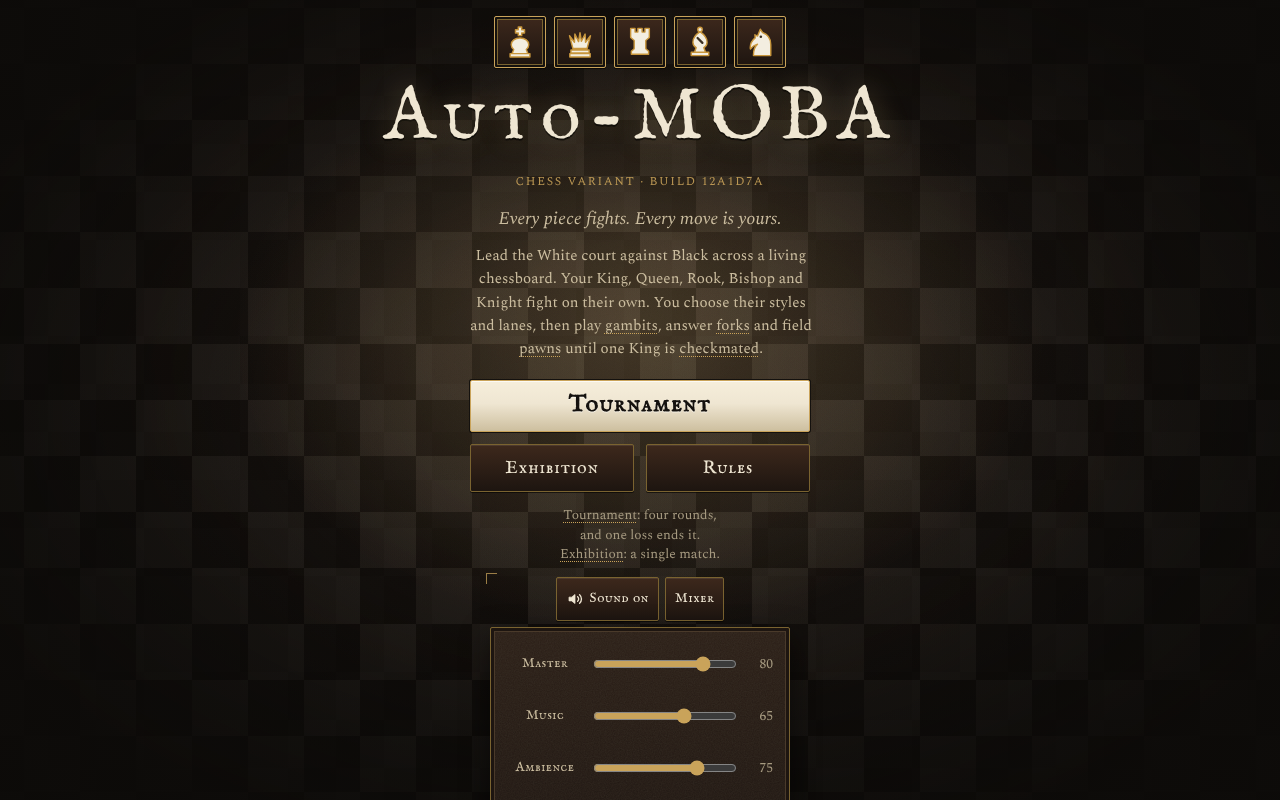
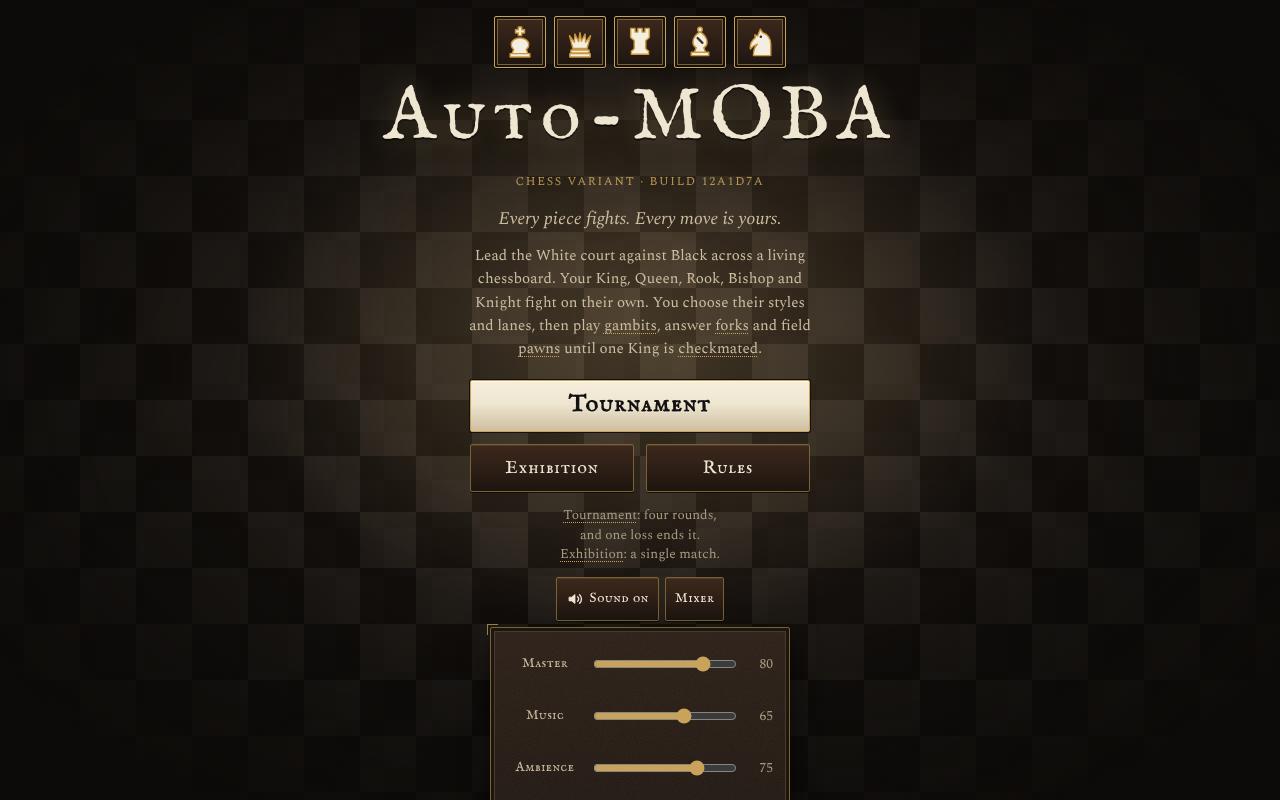
Audio: Mixer button reaches 44 px, final screenshots, changelog results
Claude-Session: https://claude.ai/code/session_01NfjPZSFNXY97ZNu7wyb6ss

Changed region(s): [[0.375, 0.3125, 0.625, 0.4688]]

diff --git a/src/ui/css/controls.css b/src/ui/css/controls.css
@@ -180,7 +180,7 @@
   gap: 6px;
   align-items: center;
 }
-.sound-mix-btn {
+.btn.small.sound-mix-btn {
   min-height: 44px;
   font-size: var(--fs-sm);
 }

diff --git a/docs/CHANGELOG.md b/docs/CHANGELOG.md
@@ -4,7 +4,7 @@ Newest first. One entry per change: what changed, why, and any measured effect. 
 
 ## 2026-10-17
 
-- **Audio: a music bed, garden ambience, 32 cues and a four-slider mixer** (proposal branch; Fable review 4.6; rules in [CHESS.md](CHESS.md) "Audio"). Why: the review scored audio 3 of 5 against the bar "a music bed, hall ambience, 20+ cues"; there were six cues and no music. **Built (all code, Web Audio synthesis, no audio files or dependencies; `src/ui/sound.ts`, `src/ui/audio/`):** (1) a **generative music bed** in D minor: a soft string pad plus a plucked harpsichord-like motif, varied bar by bar from its own seeded generator (never the sim's), calm on the Title, Setup, break sheet and report, and tenser (low ostinato, trembling strings, denser motif) in later Acts, big fights, Check, a fallen Throne and the Endgame, with crossfades over a few seconds; (2) **garden ambience** that follows the board theme (Slate garden: wind in the pines, a brook, distant birds; Lamplit parterre: warm evening hum, a fountain with drops, crickets), swelling with the fighting and ducking under the bell; (3) **32 cues**; (4) a **mixer**: Master, Music, Ambience, Effects sliders plus the mute switch, in a **Mixer** panel on the Title and in the pause menu (Adjourn), saved in localStorage (`automoba.mixer`; `automoba.sound` stays the mute switch), muting or a hidden tab suspends the audio context. Starts on the first tap or key; no Web Audio means silence, never an error. **The cues:** _toll_ low brass bell, three strengths (as before); _tick_ clock tick in the last 5 s; _clack_ capture, a wooden clack when an enemy piece falls; _fall_ your piece falls, lower and duller; _chime_ a Rank 4/8 choice made; _thud_ plain gambit (fallback); _tap_ button; _tab_ softer double tick for tabs; _deny_ a refused action, low double knock; _check_ two close uneasy pings (lower when it is your King); _checkmateWin_ rising brass-and-bell resolve; _checkmateLoss_ falling minor chord and low gong; _throneDown_ deep gong and cracking rumble; _throneHit_ faint heavy thump (at most one per 1.4 s); _bastion_ stone crumble and boom (brighter when it is theirs); _rank_ small bright three-note sparkle; _rankBig_ fuller bell chord with shimmer at Rank 4 and 8; _relic_ glassy rising arpeggio; _buy_ two coin pings; _sell_ falling coin clink; _spoils_ warm settled chord; _roundWin_ short brass fanfare; _roundLoss_ slow low descent; _eye_ the high-ground badge, a tiny very quiet blip (at most one per 3 s); _actStart_ soft low swell and wood knock; _seal_ Sealed Move plays, wax press and click; one per gambit school: _march_ two drum beats and a rising fifth, _initiative_ rapier zing, _fortress_ stone slam and a metal ring, _sacrifice_ dark falling bell with a whisper, _position_ soft wooden slide ending in a knock, _clock_ quick double tick and small chime (Black's gambits play the same sound lower and quieter). **Tests:** `tests/audio.test.ts` (23: cue mapping, cooldowns, mixer state and storage, composer determinism and range, mood, heat, no throw without audio); `tests/e2e/audio.spec.ts` (sliders exist, persist across reload, fall back from damaged storage; the mixer opens in Adjourn; a match runs with audio going and no console errors; muted stays silent). Offline renders in Chromium found no clipping and no NaN in any cue (peaks 0.00-0.42 at default levels). `npm run baseline` identical (UI only; no balance runs).
+- **Audio: a music bed, garden ambience, 32 cues and a four-slider mixer** (proposal branch; Fable review 4.6; rules in [CHESS.md](CHESS.md) "Audio"). Why: the review scored audio 3 of 5 against the bar "a music bed, hall ambience, 20+ cues"; there were six cues and no music. **Built (all code, Web Audio synthesis, no audio files or dependencies; `src/ui/sound.ts`, `src/ui/audio/`):** (1) a **generative music bed** in D minor: a soft string pad plus a plucked harpsichord-like motif, varied bar by bar from its own seeded generator (never the sim's), calm on the Title, Setup, break sheet and report, and tenser (low ostinato, trembling strings, denser motif) in later Acts, big fights, Check, a fallen Throne and the Endgame, with crossfades over a few seconds; (2) **garden ambience** that follows the board theme (Slate garden: wind in the pines, a brook, distant birds; Lamplit parterre: warm evening hum, a fountain with drops, crickets), swelling with the fighting and ducking under the bell; (3) **32 cues**; (4) a **mixer**: Master, Music, Ambience, Effects sliders plus the mute switch, in a **Mixer** panel on the Title and in the pause menu (Adjourn), saved in localStorage (`automoba.mixer`; `automoba.sound` stays the mute switch), muting or a hidden tab suspends the audio context. Starts on the first tap or key; no Web Audio means silence, never an error. **The cues:** _toll_ low brass bell, three strengths (as before); _tick_ clock tick in the last 5 s; _clack_ capture, a wooden clack when an enemy piece falls; _fall_ your piece falls, lower and duller; _chime_ a Rank 4/8 choice made; _thud_ plain gambit (fallback); _tap_ button; _tab_ softer double tick for tabs; _deny_ a refused action, low double knock; _check_ two close uneasy pings (lower when it is your King); _checkmateWin_ rising brass-and-bell resolve; _checkmateLoss_ falling minor chord and low gong; _throneDown_ deep gong and cracking rumble; _throneHit_ faint heavy thump (at most one per 1.4 s); _bastion_ stone crumble and boom (brighter when it is theirs); _rank_ small bright three-note sparkle; _rankBig_ fuller bell chord with shimmer at Rank 4 and 8; _relic_ glassy rising arpeggio; _buy_ two coin pings; _sell_ falling coin clink; _spoils_ warm settled chord; _roundWin_ short brass fanfare; _roundLoss_ slow low descent; _eye_ the high-ground badge, a tiny very quiet blip (at most one per 3 s); _actStart_ soft low swell and wood knock; _seal_ Sealed Move plays, wax press and click; one per gambit school: _march_ two drum beats and a rising fifth, _initiative_ rapier zing, _fortress_ stone slam and a metal ring, _sacrifice_ dark falling bell with a whisper, _position_ soft wooden slide ending in a knock, _clock_ quick double tick and small chime (Black's gambits play the same sound lower and quieter). **Tests:** `tests/audio.test.ts` (23: cue mapping, cooldowns, mixer state and storage, composer determinism and range, mood, heat, no throw without audio); `tests/e2e/audio.spec.ts` (sliders exist, persist across reload, fall back from damaged storage; the mixer opens in Adjourn; a match runs with audio going and no console errors; muted stays silent). Offline renders in Chromium (OfflineAudioContext) found no clipping and no NaN in any cue (peaks 0.00-0.42 at default levels) and set the music, garden and cue levels against each other. **Samples** (rendered offline, 10 s each, 22 kHz mono, 441 KB each): `docs/audio/aaa-music-calm.wav`, `aaa-music-tense.wav`, `aaa-garden-slate.wav`, `aaa-garden-lamplit.wav`; screenshots of the mixer: `docs/img/audio-mixer-title-*.png`, `audio-mixer-adjourn-*.png`. **Not done:** nobody has listened to it yet (the build machine has no speakers), so balance and taste need an owner's ears; the first bar of music can be slightly late on the first tap (the browser starts audio on a tap). No sim file changed: `npm run baseline` identical on both maps; no balance runs. **Results:** typecheck, lint and format clean; unit tests 372 of 372 (three sim tests timed out at 60 s while the shared machine was overloaded and passed on a solo rerun); browser: `audio.spec.ts` 4 of 4, the Title sound-switch test, `smoke.spec.ts` 2 of 2, `tournament.spec.ts` 9 of 9 (the new Mixer button first measured 40 px tall against the 44 px rule; fixed), `mobile.spec.ts` Title and Adjourn fit on portrait and landscape.
 
 - **CLAUDE.md: owner principle and test schedule.** Always choose the most stable, long-lasting solution; test rule 5 now says what to run per kind of change, push identical merges without re-running, and run the full browser suite once a day or before a milestone instead of on every merge. Why: merges were spending 25–30 min re-testing work that had already passed.
 
